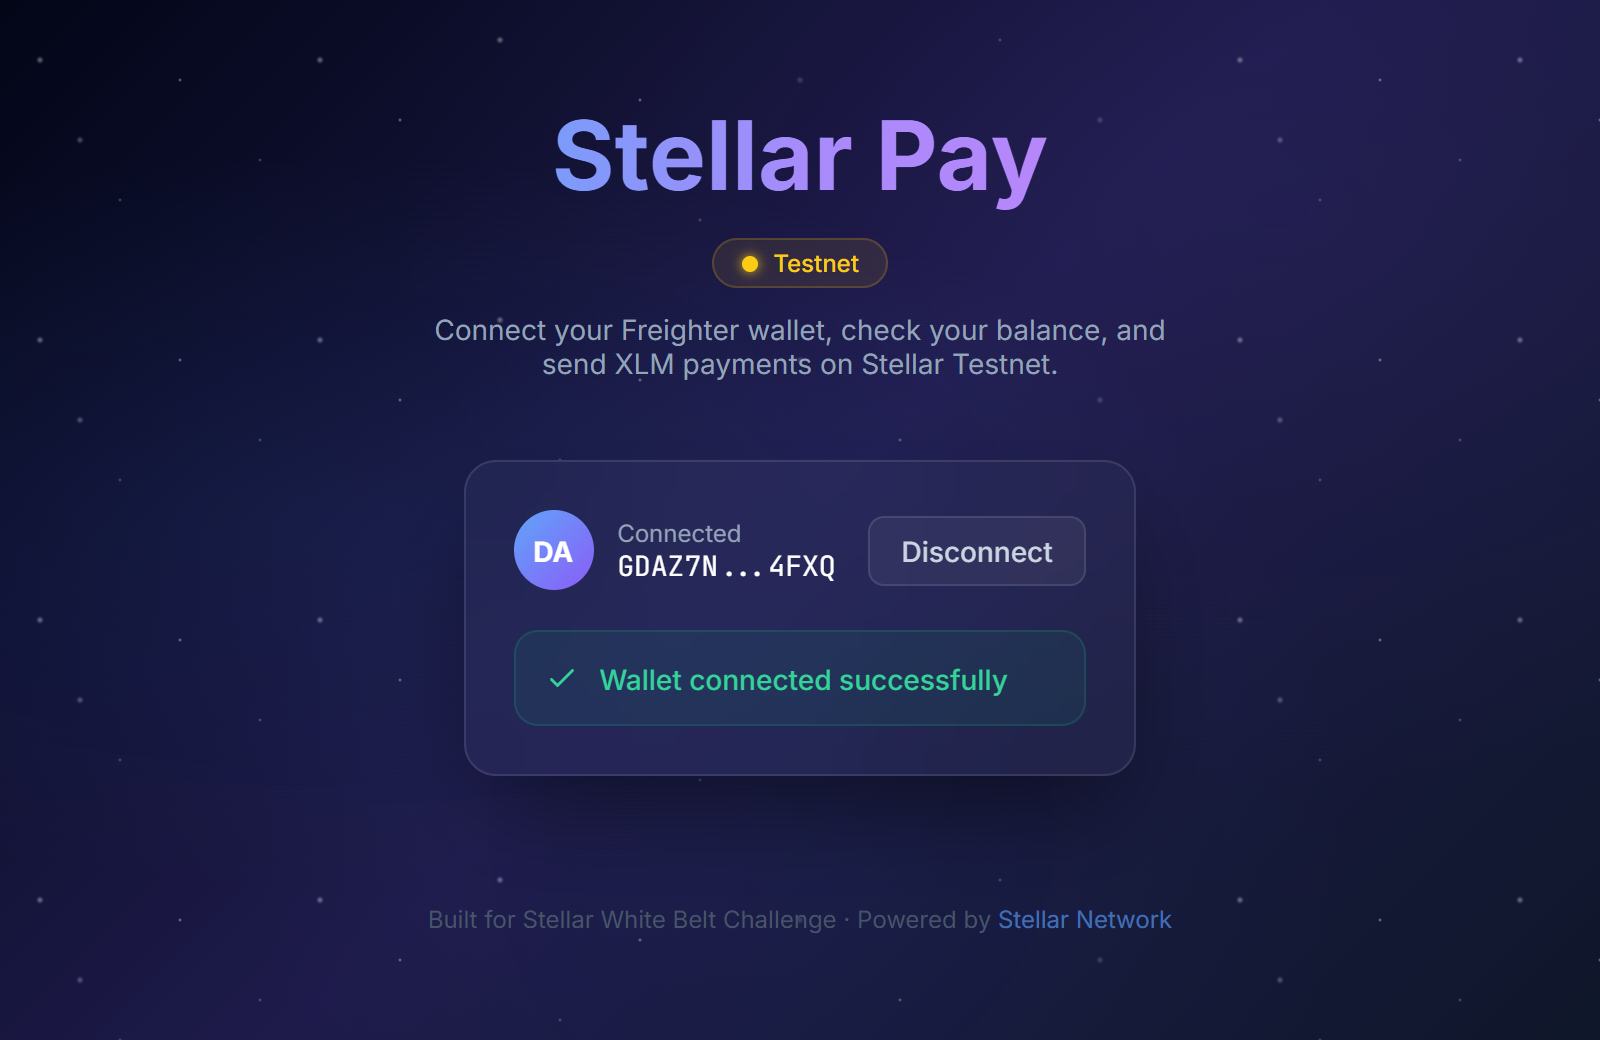
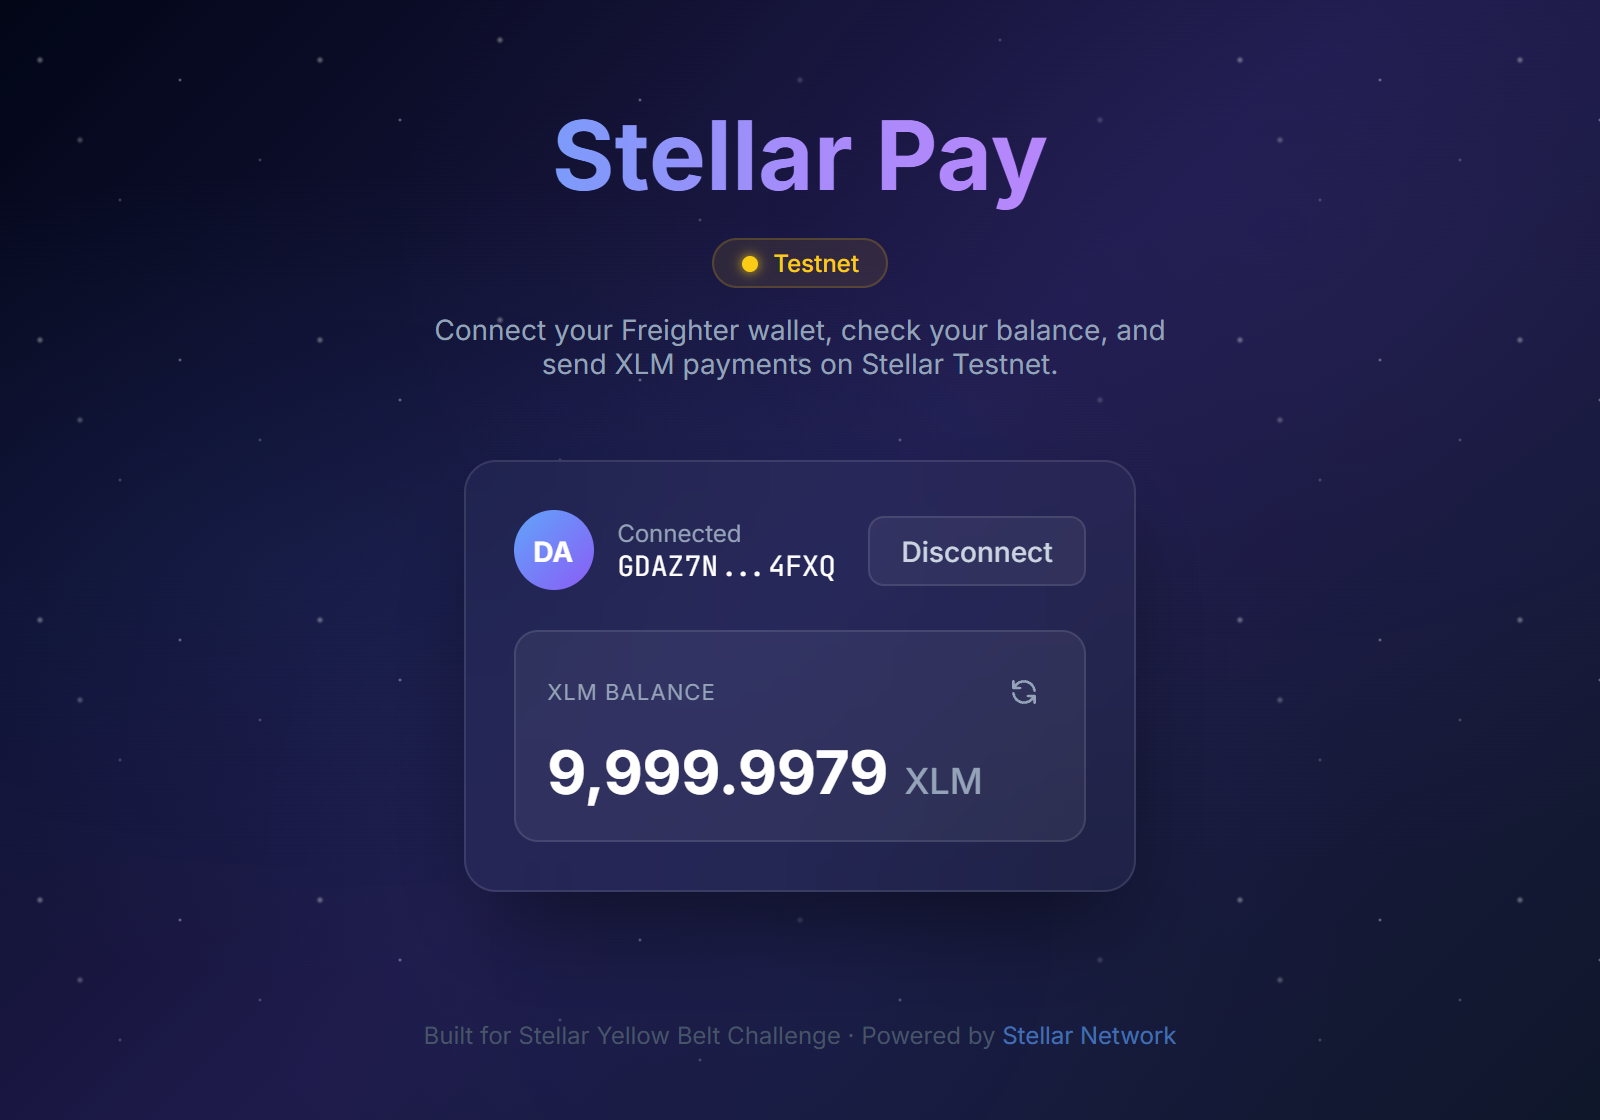
docs: update screenshots for Yellow Belt - wallet modal, vote UI
- wallet-options: multi-wallet selection (Freighter, xBull, Albedo, LOBSTR)
- wallet-connected: connected state with balance
- onchain-vote: poll with live results and vote success
- transaction-result: TX hash with Stellar Expert link

diff --git a/README.md b/README.md
@@ -106,13 +106,13 @@ stellar contract deploy \
 ## Screenshots
 
 ### Wallet Options Available
-![Wallet Options](./screenshots/wallet-connected.png)
+![Wallet Options](./screenshots/wallet-options.png)
 
-### Balance Displayed
-![Balance Displayed](./screenshots/balance-displayed.png)
+### Wallet Connected with Balance
+![Wallet Connected](./screenshots/wallet-connected.png)
 
-### Send XLM Transaction
-![Testnet Transaction](./screenshots/testnet-transaction.png)
+### On-Chain Poll with Live Results
+![On-Chain Vote](./screenshots/onchain-vote.png)
 
 ### Transaction Result
 ![Transaction Result](./screenshots/transaction-result.png)
